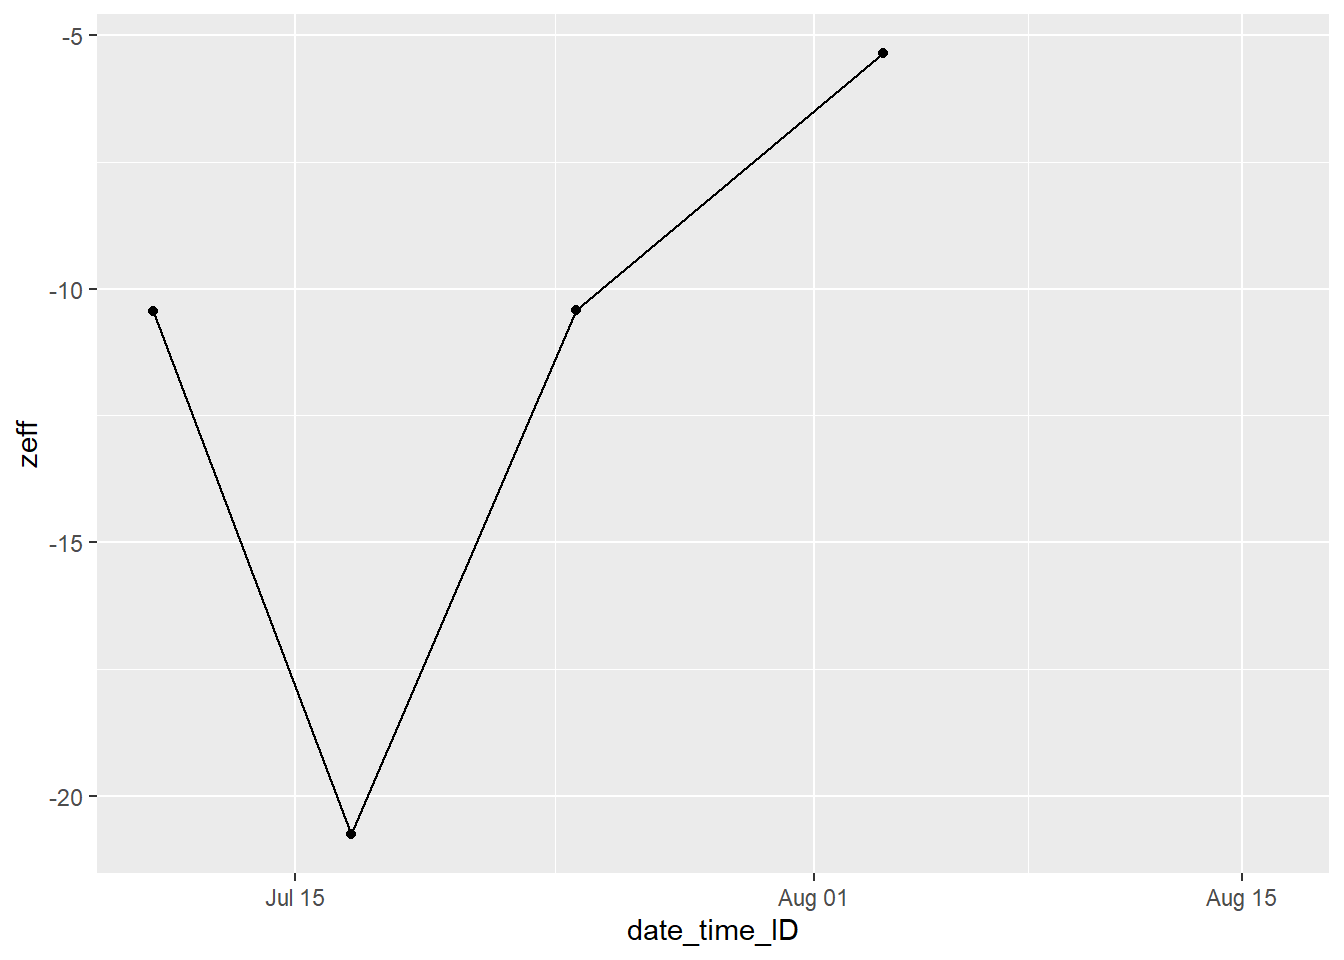
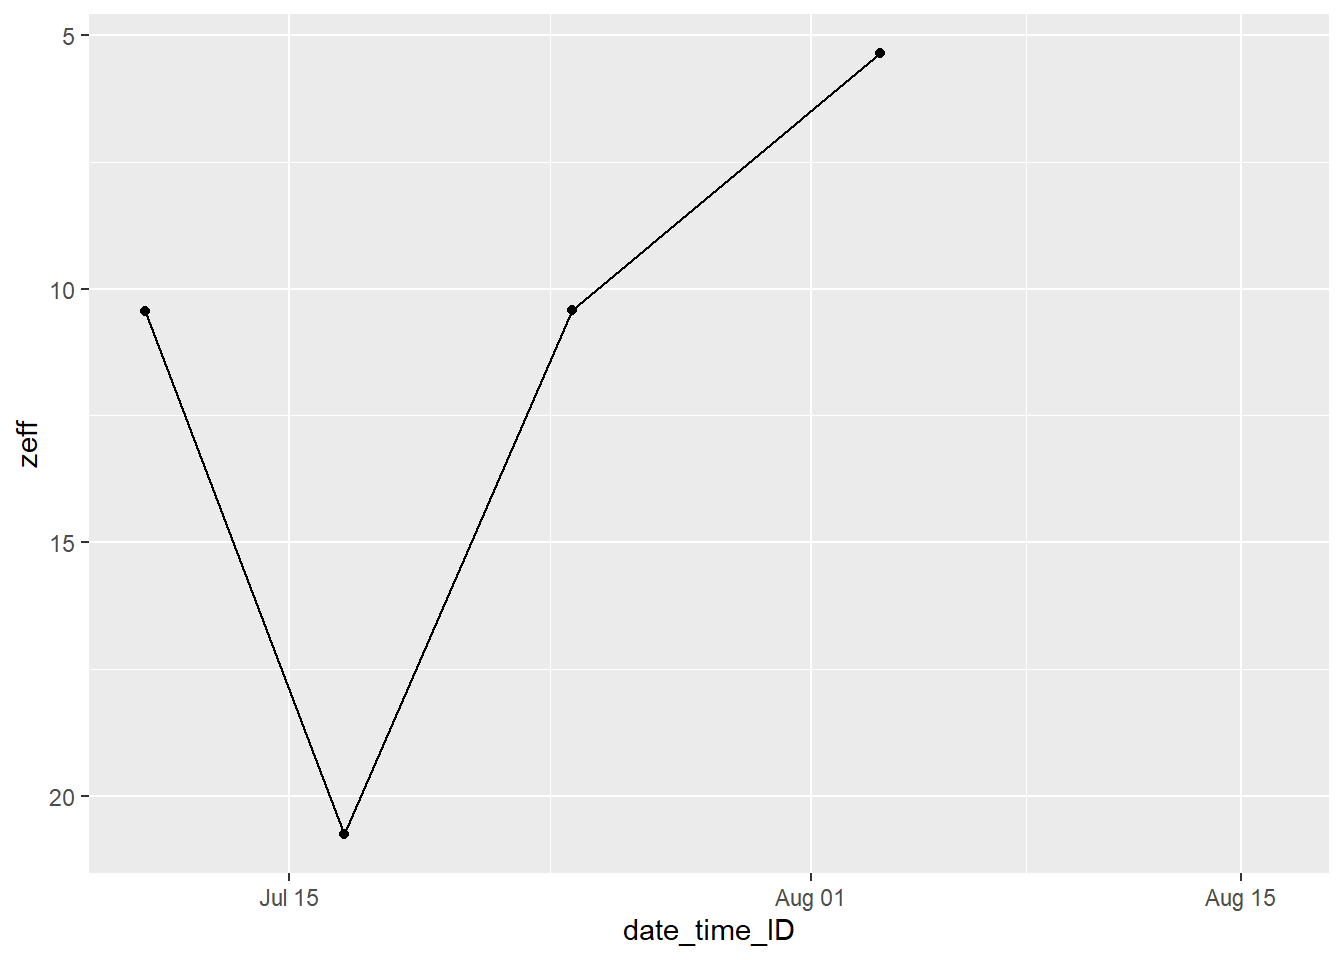
Build site.

diff --git a/docs/MLD.html b/docs/MLD.html
@@ -539,10 +539,10 @@ This reproducible <a href="http://rmarkdown.rstudio.com">R Markdown</a> analysis
 <div class="panel panel-default">
 <div class="panel-heading">
 <p class="panel-title">
-<a data-toggle="collapse" data-parent="#workflowr-checks" href="#strongRepositoryversionstrongahrefhttpsgithubcomjensdanielmuellerBloomSailtreea557413b305bd48fd472fe5b11b389349377fefetargetblanka557413a"> <span class="glyphicon glyphicon-ok text-success" aria-hidden="true"></span> <strong>Repository version:</strong> <a href="https://github.com/jens-daniel-mueller/BloomSail/tree/a557413b305bd48fd472fe5b11b389349377fefe" target="_blank">a557413</a> </a>
+<a data-toggle="collapse" data-parent="#workflowr-checks" href="#strongRepositoryversionstrongahrefhttpsgithubcomjensdanielmuellerBloomSailtree583c398c1724969100ddca0c0ed3c1c37d6a9b6ftargetblank583c398a"> <span class="glyphicon glyphicon-ok text-success" aria-hidden="true"></span> <strong>Repository version:</strong> <a href="https://github.com/jens-daniel-mueller/BloomSail/tree/583c398c1724969100ddca0c0ed3c1c37d6a9b6f" target="_blank">583c398</a> </a>
 </p>
 </div>
[2 lines of base64/hex data omitted]
 <div class="panel-body">
 <p>
 Great! You are using Git for version control. Tracking code development and connecting the code version to the results is critical for reproducibility. The version displayed above was the version of the Git repository at the time these results were generated. <br><br> Note that you need to be careful to ensure that all relevant files for the analysis have been committed to Git prior to generating the results (you can use <code>wflow_publish</code> or <code>wflow_git_commit</code>). workflowr only checks the R Markdown file, but you know if there are other scripts or data files that it depends on. Below is the status of the Git repository when the results were generated:
@@ -551,6 +551,7 @@ Great! You are using Git for version control. Tracking code development and conn
 Ignored files:
     Ignored:    .Rhistory
     Ignored:    .Rproj.user/
+    Ignored:    analysis/figure/
     Ignored:    data/Maps/
     Ignored:    data/Ostergarnsholm/
     Ignored:    data/TinaV/
@@ -627,7 +628,7 @@ df &lt;- full_join(df, MLD)</code></pre>
   geom_hline(aes(yintercept = MLD, col=as.factor(rho_lim)))+
   geom_path()+
   scale_y_reverse()+
-  #scale_color_brewer(name=&quot;Rho lim&quot;)+
+  scale_color_discrete(name=&quot;Rho lim&quot;)+
   facet_grid(ID~station)</code></pre>
 <div class="figure" style="text-align: center">
 <img src="figure/MLD.Rmd/plot_density_profiles-1.png" alt="Overview density profiles at stations (P01-P14) and cruise dates (ID). Horizontal lines indicate determined MLD" width="672" />
@@ -664,26 +665,21 @@ for(i_ID in unique(df_long$ID)){
   for(i_station in unique(df_long$station)){
  
       
-      #i_ID      &lt;-      unique(df_long$ID)[1]
-      #i_station &lt;- unique(df_long$station)[1]
+      # i_ID      &lt;-      unique(df_long$ID)[1]
+      # i_station &lt;- unique(df_long$station)[1]
 
       if (nrow(df_long %&gt;% filter(ID == i_ID, station == i_station)) &gt; 0){
       
-    
-    
       print(
-    
-        
         df_long %&gt;%
           arrange(date_time) %&gt;% 
           filter(ID == i_ID,
-                 station == i_station,
-                 dep&lt;20) %&gt;%
+                 station == i_station) %&gt;%
           ggplot(aes(value,dep))+
-          geom_hline(aes(yintercept = MLD))+
+          geom_hline(aes(yintercept = MLD, col=as.factor(rho_lim)))+
           geom_path()+
-          scale_y_reverse()+
-          scale_color_brewer(palette = &quot;Set1&quot;)+
+          scale_y_reverse(limits = c(30,0))+
+          scale_color_discrete(name=&quot;Rho lim&quot;)+
           labs(y=&quot;Depth [m]&quot;, title = str_c(i_ID,&quot; | &quot;,i_station))+
           facet_wrap(~parameter, scales = &quot;free_x&quot;)+
           theme_bw()
@@ -722,7 +718,7 @@ NCP_integ &lt;- CT_ts %&gt;%
 CT &lt;- full_join(CT_conc_surf, NCP_integ)
 
 CT &lt;- CT %&gt;% 
-  mutate(zeff = -(dNCPi/dCT)*1e3)
+  mutate(zeff = (dNCPi/dCT)*1e3)
 
 CT_long &lt;- CT %&gt;% 
   pivot_longer(3:4, names_to = &quot;parameter&quot;, values_to = &quot;values&quot;)
@@ -736,7 +732,8 @@ CT_long %&gt;%
 <pre class="r"><code>CT %&gt;% 
   ggplot(aes(date_time_ID, zeff))+
   geom_path()+
-  geom_point()</code></pre>
+  geom_point()+
+  scale_y_reverse()</code></pre>
 <p><img src="figure/MLD.Rmd/NCP_penetration_depth-2.png" width="672" style="display: block; margin: auto;" /></p>
 <br>
 <p>
